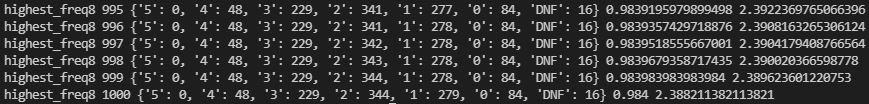
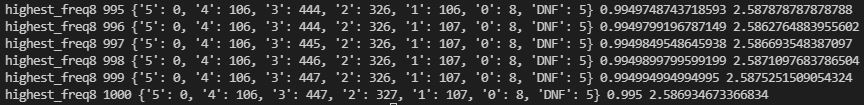
Add files via upload

diff --git a/webdriver.py b/webdriver.py
@@ -1,93 +1,110 @@
-import main as gameEngine
-import time
-from selenium import webdriver
-from webdriver_manager.chrome import ChromeDriverManager
+# import main as gameEngine
+# import time
+# from selenium import webdriver
+# from webdriver_manager.chrome import ChromeDriverManager
 
-chrome_options = webdriver.ChromeOptions()
-chrome_options.add_argument("--incognito")
-chrome_options.add_argument("--start-maximized")
-driver = webdriver.Chrome(ChromeDriverManager().install(), chrome_options=chrome_options)
+# chrome_options = webdriver.ChromeOptions()
+# chrome_options.add_argument("--incognito")
+# chrome_options.add_argument("--start-maximized")
+# driver = webdriver.Chrome(ChromeDriverManager().install(), chrome_options=chrome_options)
 
-def keyboardIn(string):
-    keyBoardLocation = "document.getElementById('keyboard').children[0]"
-    for letter in string:
-        if letter in "qwertyuiop":
-            driver.execute_script(keyBoardLocation + ".children[0]" + ".children[" + str("qwertyuiop".index(letter)) + "].click()")
-        elif letter in "asdfghjkl":
-            driver.execute_script(keyBoardLocation + ".children[1]" + ".children[" + str("asdfghjkl".index(letter)) + "].click()")
-        else:
-            driver.execute_script(keyBoardLocation + ".children[2]" + ".children[" + str("zxcvbnm".index(letter) + 1) + "].click()")
-    driver.execute_script(keyBoardLocation + ".children[2]" + ".children[8].click()")
+# def keyboardIn(string):
+#     keyBoardLocation = "document.getElementById('keyboard').children[0]"
+#     for letter in string:
+#         if letter in "qwertyuiop":
+#             driver.execute_script(keyBoardLocation + ".children[0]" + ".children[" + str("qwertyuiop".index(letter)) + "].click()")
+#         elif letter in "asdfghjkl":
+#             driver.execute_script(keyBoardLocation + ".children[1]" + ".children[" + str("asdfghjkl".index(letter)) + "].click()")
+#         else:
+#             driver.execute_script(keyBoardLocation + ".children[2]" + ".children[" + str("zxcvbnm".index(letter) + 1) + "].click()")
+#     driver.execute_script(keyBoardLocation + ".children[2]" + ".children[8].click()")
 
-def getWordState(colIndex, rowIndex):
-    wordState = ""
-    for int in range(5):
-        letterColor = driver.execute_script('return document.getElementById("widescreen-container").children[0].children[' + str(colIndex) + '].children[0].children[0].children[' + str(rowIndex) + '].children[' + str(int) + '].getAttribute("style")')
-        if letterColor == 'color: white; background-color: rgb(24, 26, 27);':
-            wordState += "0"
-        elif letterColor == 'color: black; background-color: rgb(255, 204, 0);':
-            wordState += "1"
-        else:
-            wordState += "2"
-    return wordState
+# def getWordState(colIndex, rowIndex):
+#     wordState = ""
+#     for int in range(5):
+#         letterColor = driver.execute_script('return document.getElementById("widescreen-container").children[0].children[' + str(colIndex) + '].children[0].children[0].children[' + str(rowIndex) + '].children[' + str(int) + '].getAttribute("style")')
+#         if letterColor == 'color: white; background-color: rgb(24, 26, 27);':
+#             wordState += "0"
+#         elif letterColor == 'color: black; background-color: rgb(255, 204, 0);':
+#             wordState += "1"
+#         else:
+#             wordState += "2"
+#     return wordState
 
-def colComplete(colIndex):
-    for i in range(13):
-        if getWordState(colIndex, i) == "22222":
-            return True
-    return False
+# def colComplete(colIndex):
+#     for i in range(13):
+#         if getWordState(colIndex, i) == "22222":
+#             return True
+#     return False
 
-def allComplete():
-    for i in range(8):
-        if not colComplete(i):
-            return False
-    return True
+# def allComplete():
+#     for i in range(8):
+#         if not colComplete(i):
+#             return False
+#     return True
 
-def getShortestList():
-    lists = []
-    for i in range(8):
-        if colComplete(i):
-            continue
-        else:
-            lists.append(wordLists[i])
-    minimum = 9999
-    minList = []
-    for i in range(len(lists)):
-        if len(lists[i]) < minimum and len(lists[i]) > 0:
-            minimum = len(lists[i])
-            minList = lists[i]
-    return minList
+# def getShortestListAbove2():
+#     lists = []
+#     for i in range(8):
+#         if colComplete(i):
+#             continue
+#         else:
+#             lists.append(wordLists[i])
+#     minimum = 9999
+#     minList = []
+#     for i in range(len(lists)):
+#         if len(lists[i]) < minimum and len(lists[i]) > 2:
+#             minimum = len(lists[i])
+#             minList = lists[i]
+#     return minList
 
-def runTurn(rowIndex):
-    wordList = getShortestList()
-    if rowIndex == 12:
-        inputWord = gameEngine.getMaxValue1(wordList)
-    else:
-        if gameEngine.isBlimp(wordList):
-            inputWord = gameEngine.blimpSearch(wordList)
-        else:
-            inputWord = gameEngine.getMaxValue1(wordList)
-    keyboardIn(inputWord)
-    for i in range(8):
-        wordLists[i] = gameEngine.gameFilter(inputWord, getWordState(i, rowIndex), wordLists[i])
+# def getShortestList():
+#     lists = []
+#     for i in range(8):
+#         if colComplete(i):
+#             continue
+#         else:
+#             lists.append(wordLists[i])
+#     minimum = 9999
+#     minList = []
+#     for i in range(len(lists)):
+#         if len(lists[i]) < minimum and len(lists[i]) > 0:
+#             minimum = len(lists[i])
+#             minList = lists[i]
+#     return minList
+
+# def runTurn(rowIndex):
+#     wordList = getShortestListAbove2()
+#     if len(wordList) == 0:
+#         wordList = getShortestList()
+#     if rowIndex == 12:
+#         inputWord = gameEngine.getMaxValue1(wordList)
+#     else:
+#         if gameEngine.isBlimp(wordList):
+#             inputWord = gameEngine.blimpSearch(wordList)
+#         else:
+#             inputWord = gameEngine.getMaxValue1(wordList)
+#     keyboardIn(inputWord)
+#     for i in range(8):
+#         wordLists[i] = gameEngine.gameFilter(inputWord, getWordState(i, rowIndex), wordLists[i])
     
-while(1):
-    driver.get("https://octordle.com/?mode=free")
-    driver.execute_script("document.getElementById('widescreen-yes').click()")
-    wordLists = [[i[:-1] for i in open("words.txt", "r").readlines()] for j in range(8)]
-    keyboardIn("salet")
-    for i in range(8):
-        wordLists[i] = gameEngine.gameFilter("salet", getWordState(i, 0), wordLists[i])
-    # keyboardIn("lirot")
-    # for i in range(8):
-    #     wordLists[i] = gameEngine.gameFilter("lirot", getWordState(i, 1), wordLists[i])
-    rowIndex = 1
-    try:
-        while not allComplete():
-            runTurn(rowIndex)
-            rowIndex += 1
-    except:
-        pass
-    time.sleep(1)
-    driver.execute_script("document.getElementById('reset_free').click()")
-    driver.switch_to.alert.accept()
+# while(1):
+#     driver.get("https://octordle.com/?mode=free")
+#     driver.execute_script("document.getElementById('widescreen-yes').click()")
+#     wordLists = [[i[:-1] for i in open("words.txt", "r").readlines()] for j in range(8)]
+#     keyboardIn("salet")
+#     for i in range(8):
+#         wordLists[i] = gameEngine.gameFilter("salet", getWordState(i, 0), wordLists[i])
+#     # keyboardIn("lirot")
+#     # for i in range(8):
+#     #     wordLists[i] = gameEngine.gameFilter("lirot", getWordState(i, 1), wordLists[i])
+#     rowIndex = 1
+#     try:
+#         while not allComplete():
+#             runTurn(rowIndex)
+#             rowIndex += 1
+#     except:
+#         pass
+#     time.sleep(1)
+#     driver.execute_script("document.getElementById('reset_free').click()")
+#     driver.switch_to.alert.accept()

diff --git a/main.py b/main.py
@@ -237,6 +237,21 @@ def listComplete(list): #returns whether or not a list is narrowed down to its a
     else:
         return False
 
+def getShortestListAbove2(wordLists): #returns the shortest list with at least 3 possible words
+    lists = []
+    for i in range(8):
+        if listComplete(wordLists[i]):
+            continue
+        else:
+            lists.append(wordLists[i])
+    minimum = 9999
+    minList = []
+    for i in range(len(lists)):
+        if len(lists[i]) < minimum and len(lists[i]) > 2:
+            minimum = len(lists[i])
+            minList = lists[i]
+    return minList
+
 def getShortestList(wordLists): #returns the shortest list with at least 2 possible words
     lists = []
     for i in range(8):
@@ -269,7 +284,9 @@ def test_highestFrequency8(n):   #tests search using letter frequencies
         while steps < 6:
             if allComplete(wordLists):
                 break
-            wordList = getShortestList(wordLists)
+            wordList = getShortestListAbove2(wordLists)
+            if len(wordList) == 0:
+                wordList = getShortestList(wordLists)
             if steps < 5:
                 if isBlimp(wordList):
                     inputWord = blimpSearch(wordList)
@@ -305,4 +322,4 @@ def test_highestFrequency8(n):   #tests search using letter frequencies
         success_rate = 1 - (game_data["DNF"] / (game_data["1"] + game_data["2"] + game_data["3"] + game_data["4"] + game_data["5"] + game_data["0"] + game_data["DNF"]))
         print("highest_freq8", (game_data["1"] + game_data["2"] + game_data["3"] + game_data["4"] + game_data["5"] + game_data["0"] + game_data["DNF"]), game_data, success_rate, game_data_avg(game_data))
             
-# test_highestFrequency8(1000)
+test_highestFrequency8(1000)
